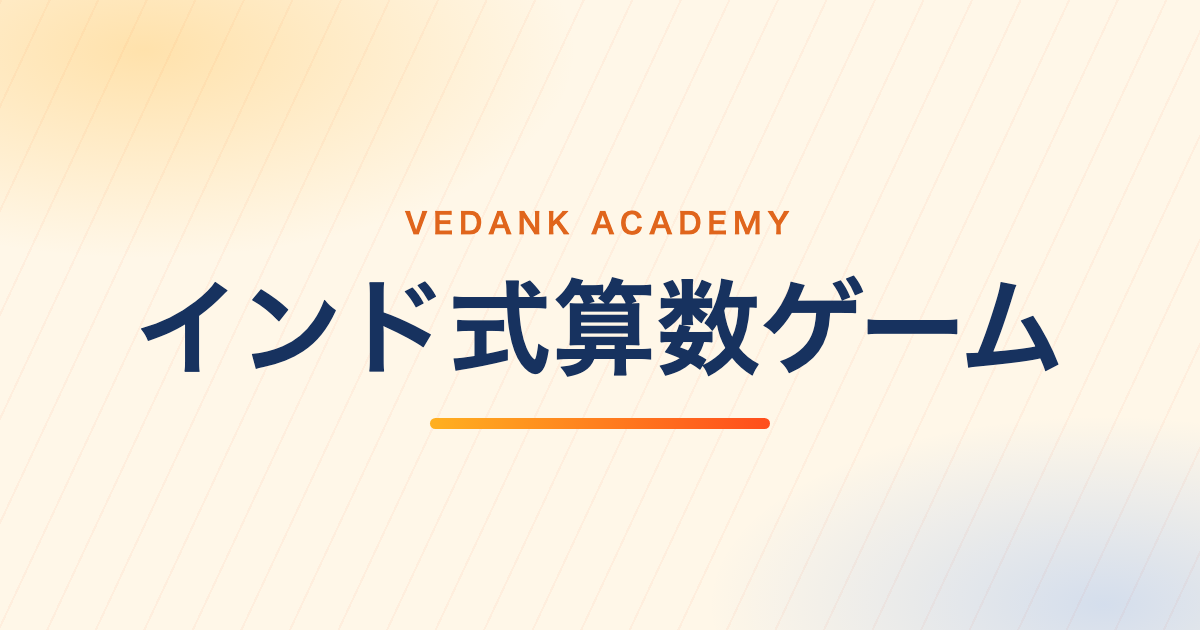
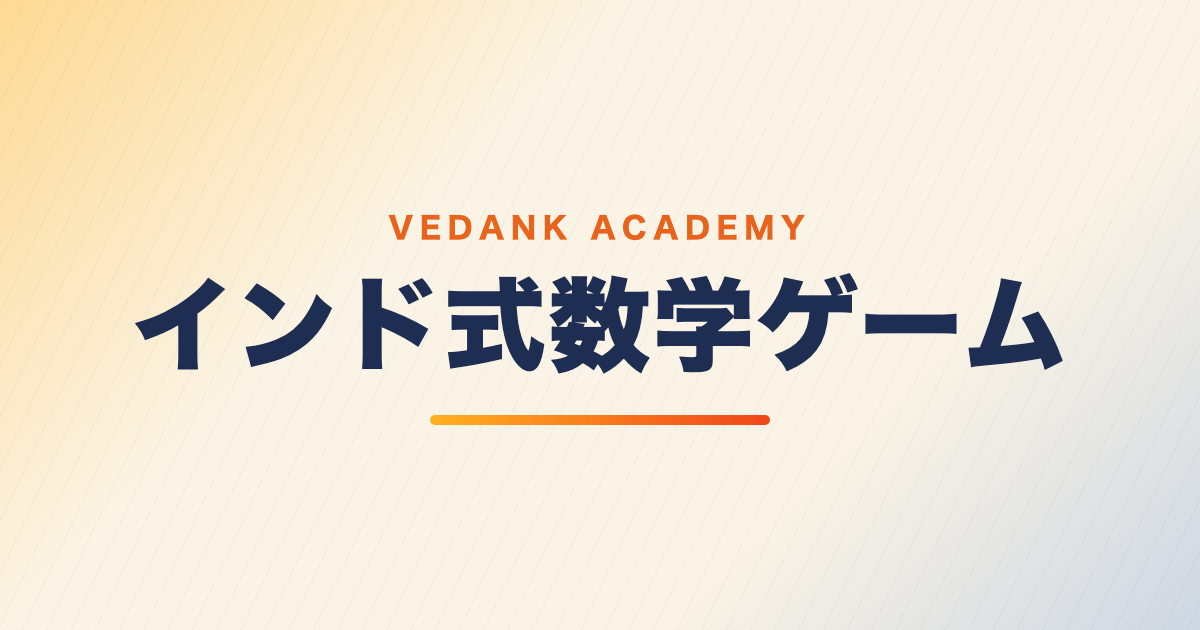
Japanese: インド式算数 → インド式数学 everywhere, incl. regenerated OG card (#30)

diff --git a/src/app/layout.tsx b/src/app/layout.tsx
@@ -5,9 +5,9 @@ import { ServiceWorkerRegistrar } from "@/components/ServiceWorkerRegistrar";
 /* The link preview is the first thing a Japanese player sees — it has to sell
    the idea before they ever reach the login screen, so the copy here is
    Japanese-first with the English line kept underneath. */
-const TITLE = "インド式算数ゲーム — 考えて、ひらめいて、挑戦しよう！";
+const TITLE = "インド式数学ゲーム — 考えて、ひらめいて、挑戦しよう！";
 const DESCRIPTION =
-  "インド式算数を覚えるアプリではなく、数学の「見方」を発見するゲーム。" +
+  "インド式数学を覚えるアプリではなく、数学の「見方」を発見するゲーム。" +
   "古代の計算法を、14のスートラとマッチ棒パズルで。" +
   "A game that doesn't just teach Indian calculation methods — it teaches you to see mathematics differently.";
 
@@ -27,7 +27,7 @@ export const metadata: Metadata = {
     siteName: "Sutra Sprint",
     title: TITLE,
     description: DESCRIPTION,
-    images: [{ url: "/brand/og-ja.png", width: 1200, height: 630, alt: "インド式算数ゲーム" }],
+    images: [{ url: "/brand/og-ja.png", width: 1200, height: 630, alt: "インド式数学ゲーム" }],
   },
   twitter: {
     card: "summary_large_image",

diff --git a/public/sw.js b/public/sw.js
@@ -9,7 +9,7 @@
    there merges into their account the next time they sign in.
 
    Bump VERSION to retire every old cache on the next activate. */
-const VERSION = "v2";
+const VERSION = "v3";
 const CACHE = `sutra-${VERSION}`;
 
 /* /offline.html is a plain file with inline styles and no script: a fallback
@@ -97,7 +97,7 @@ self.addEventListener("fetch", (e) => {
    body still shows something rather than the browser's own "This site has
    been updated in the background" placeholder. */
 self.addEventListener("push", (e) => {
-  let note = { title: "インド式算数ゲーム", body: "新しいお知らせがあります", url: "/", tag: "general" };
+  let note = { title: "インド式数学ゲーム", body: "新しいお知らせがあります", url: "/", tag: "general" };
   try {
     if (e.data) note = Object.assign(note, e.data.json());
   } catch {}

diff --git a/src/app/manifest.ts b/src/app/manifest.ts
@@ -5,9 +5,9 @@ import type { MetadataRoute } from "next";
    bursts on a phone is most of the difference between a site and an app. */
 export default function manifest(): MetadataRoute.Manifest {
   return {
-    name: "インド式算数ゲーム — Sutra Sprint",
+    name: "インド式数学ゲーム — Sutra Sprint",
     short_name: "Sutra Sprint",
-    description: "インド式算数を覚えるアプリではなく、数学の「見方」を発見するゲーム。",
+    description: "インド式数学を覚えるアプリではなく、数学の「見方」を発見するゲーム。",
     lang: "ja",
     start_url: "/",
     scope: "/",

diff --git a/src/app/login/page.tsx b/src/app/login/page.tsx
@@ -28,8 +28,8 @@ const COPY = {
   },
   ja: {
     kicker: "VEDANK ACADEMY",
-    hero: "インド式算数ゲーム",
-    pitch: "インド式算数を覚えるアプリではなく、数学の「見方」を発見するゲーム。",
+    hero: "インド式数学ゲーム",
+    pitch: "インド式数学を覚えるアプリではなく、数学の「見方」を発見するゲーム。",
     title: "おかえりなさい",
     sub: "ログインして、連続記録をつづけよう。",
     email: "メールアドレス",

diff --git a/public/offline.html b/public/offline.html
@@ -3,7 +3,7 @@
 <head>
 <meta charset="utf-8">
 <meta name="viewport" content="width=device-width,initial-scale=1,viewport-fit=cover">
-<title>オフライン — インド式算数ゲーム</title>
+<title>オフライン — インド式数学ゲーム</title>
 <!-- Deliberately a plain file, not a Next route. The first version of this
      was a React page, and offline it rendered as raw flight data behind
      "This page couldn't load" — a fallback that needs the framework to boot

diff --git a/src/app/try/page.tsx b/src/app/try/page.tsx
@@ -8,7 +8,7 @@ import { loadOverrides } from "@/lib/game/overrides";
    they've seen a single question. This is the same game, playable first. */
 
 export const metadata = {
-  title: "おためしプレイ — インド式算数ゲーム",
+  title: "おためしプレイ — インド式数学ゲーム",
   description: "アカウントなしで、すぐに遊べます。",
 };
 
